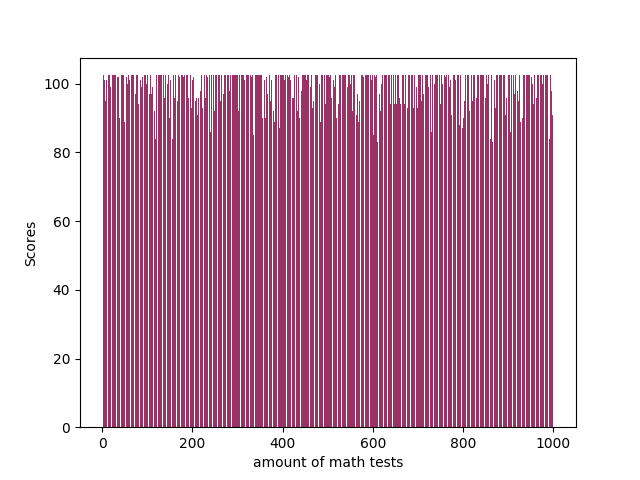
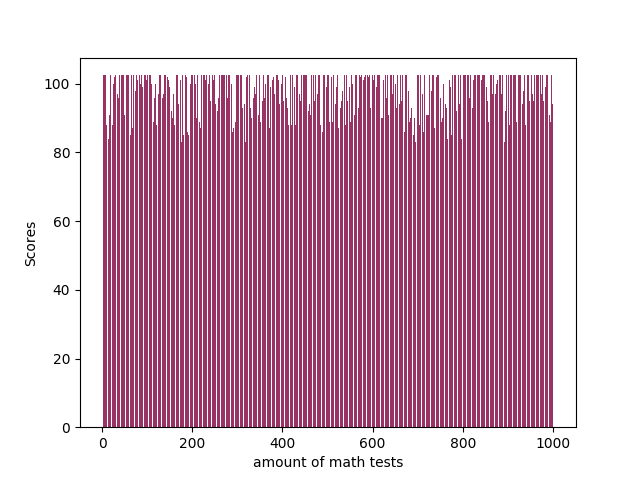
.

Changed region(s): [[0.1562, 0.1562, 0.875, 0.9375]]

diff --git a/Test_Sim_Data/test_sim_data.py b/Test_Sim_Data/test_sim_data.py
@@ -18,6 +18,7 @@ import matplotlib.pyplot as mat
 
 def Assessment_scores(amount_of_test, subject, affinity):
 	test_score = []
+	average_grade = 0
 	if subject.lower() == "math":
 		for x in range(amount_of_test):
 			if affinity.lower() == "bad":
@@ -31,12 +32,13 @@ def Assessment_scores(amount_of_test, subject, affinity):
 			elif affinity.lower() == "great":
 				lowest_possible = 75
 				highest_possible = 102.5
-				duration_of_studying = r.uniform(1,2.5)
+				duration_of_studying = r.uniform(1,2)
 			grade = r.uniform(lowest_possible, highest_possible)
 			studying_multiplyer = (grade*(1+0.1)**(duration_of_studying))//1
 			if studying_multiplyer > 102.5:
 				studying_multiplyer = 102.5
 			test_score.append(studying_multiplyer)
+			average_grade += studying_multiplyer
 
 
 	elif subject.lower() == "english":
@@ -52,12 +54,13 @@ def Assessment_scores(amount_of_test, subject, affinity):
 			elif affinity.lower() == "great":
 				lowest_possible = 75/2
 				highest_possible = 102.5/2
-				duration_of_studying = r.uniform(1,2.5)
+				duration_of_studying = r.uniform(1,2)
 			grade = r.uniform(lowest_possible, highest_possible)
 			studying_multiplyer = (grade*(1+0.075)**(duration_of_studying))//1
 			if studying_multiplyer > 102.5/2:
 				studying_multiplyer = 102.5/2
 			test_score.append(studying_multiplyer)
+			average_grade += studying_multiplyer
 
 
 	elif subject.lower() == "computer science" or subject.lower() == "comp scie":
@@ -73,12 +76,13 @@ def Assessment_scores(amount_of_test, subject, affinity):
 			elif affinity.lower() == "great":
 				lowest_possible = 3.85
 				highest_possible = 5.1
-				duration_of_studying = r.uniform(1,2.5)
+				duration_of_studying = r.uniform(1,2)
 			grade = r.uniform(lowest_possible, highest_possible)
 			studying_multiplyer = (grade*(1+0.05)**(duration_of_studying))
 			if studying_multiplyer > 5.1:
 				studying_multiplyer = 5.1
 			test_score.append(studying_multiplyer)
+			average_grade += studying_multiplyer
 
 
 	elif subject.lower() == "language" or subject.lower() == "spanish":
@@ -94,54 +98,65 @@ def Assessment_scores(amount_of_test, subject, affinity):
 			elif affinity.lower() == "great":
 				lowest_possible = 75
 				highest_possible = 102.5
-				duration_of_studying = r.uniform(1,2.5)
+				duration_of_studying = r.uniform(1,2)
 			grade = r.uniform(lowest_possible, highest_possible)
 			studying_multiplyer = (grade*(1+0.1)**(duration_of_studying))//1
 			if studying_multiplyer > 102.5:
 				studying_multiplyer = 100
 			test_score.append(studying_multiplyer)
+			average_grade += studying_multiplyer
+	average_grade = average_grade/amount_of_test
+	test_score.append(average_grade)
 	return test_score
 
 
 def math(n, affinity):
 	amount_of_test = n
 	math = Assessment_scores(amount_of_test, "math", affinity)
-	r = [x for x in range(1, 1+amount_of_test)]
+	r = [x for x in range(1, 2+amount_of_test)]
 	mat.bar(r, math, color=(.6,.2,.4,1.0))
 	mat.ylabel("Scores")
 	mat.xlabel("amount of math tests")
 	mat.savefig("math_test_bar_charts.png")
 	mat.show()
+	average_grade = math[-1]
+	print("math average grade is "+str(average_grade))
 
 def spanish(n, affinity):
 	amount_of_test = n
 	spanish = Assessment_scores(amount_of_test, "spanish", affinity)
-	r = [x for x in range(1, 1+amount_of_test)]
+	r = [x for x in range(1, 2+amount_of_test)]
 	mat.bar(r, spanish, color=(.6,.2,.4,1.0))
 	mat.ylabel("Scores")
 	mat.xlabel("amount of spanish tests")
 	mat.savefig("spanish_test_bar_charts.png")
 	mat.show()
+	average_grade = spanish[-1]
+	print("spanish average grade is "+str(average_grade))
 
 def computer_science(n, affinity):
 	amount_of_test = n
 	computer_science = Assessment_scores(amount_of_test, "computer science", affinity)
-	r = [x for x in range(1, 1+amount_of_test)]
+	r = [x for x in range(1, 2+amount_of_test)]
 	mat.bar(r, computer_science, color=(.6,.2,.4,1.0))
 	mat.ylabel("Scores")
 	mat.xlabel("amount of computer science tests")
 	mat.savefig("cs_test_bar_charts.png")
 	mat.show()
+	average_grade = computer_science[-1]
+	print("computer_science average grade is "+str(average_grade))
 
 def english(n, affinity):
 	amount_of_test = n
 	english = Assessment_scores(amount_of_test, "english", affinity)
-	r = [x for x in range(1, 1+amount_of_test)]
+	r = [x for x in range(1, 2+amount_of_test)]
 	mat.bar(r, english, color=(.6,.2,.4,1.0))
 	mat.ylabel("Scores")
 	mat.xlabel("amount of english tests")
 	mat.savefig("english_test_bar_charts.png")
 	mat.show()
+	average_grade = english[-1]
+	print("english average grade is "+str(average_grade))
 
 math(1000, "great")
 english(1000, "great")
